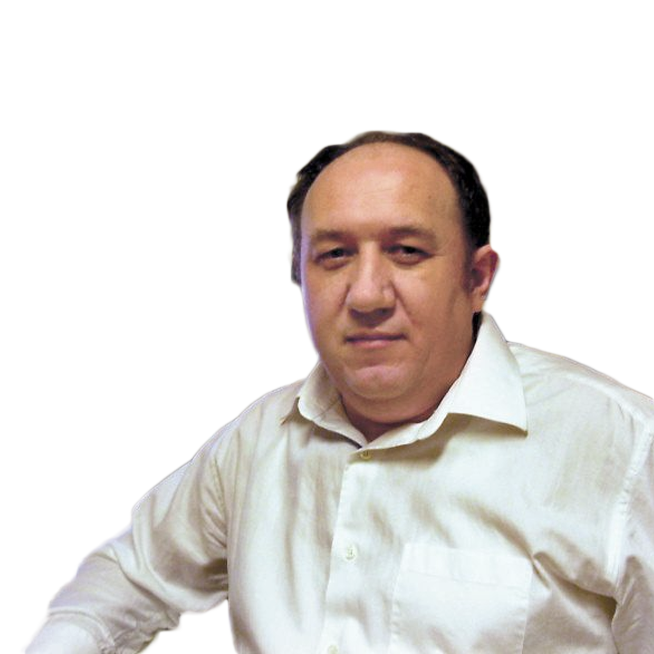
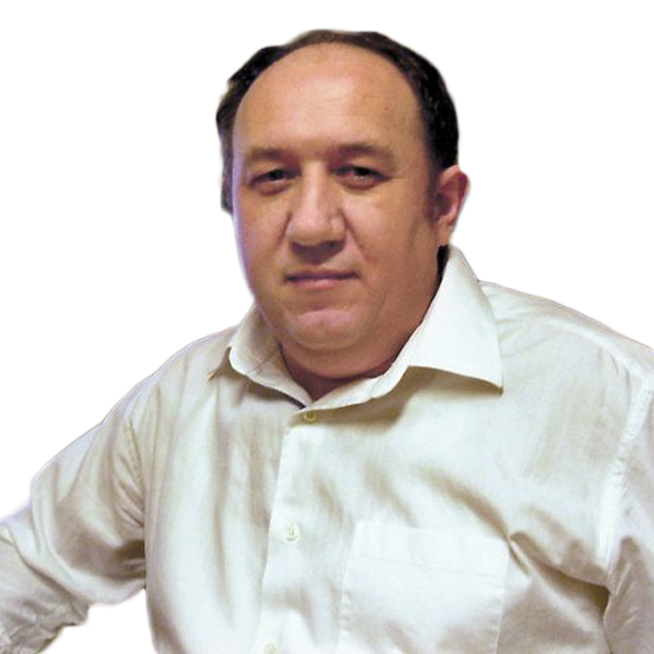
Изменил несколько фоток; сделал больше расстояние между людьми; добавил padding-left к секции team

diff --git a/docs/css/style.css b/docs/css/style.css
@@ -250,12 +250,13 @@ hr {
 #team {
     overflow: hidden;
     background: #eee;
+    padding-left: 15px;
 }
 
 #team > div {
     text-align: center;
-    width: calc(20% - 2px);
-    margin: 0 1px;
+    width: calc(20% - 16px);
+    margin: 0 8px;
     float: left;
     cursor: pointer;
 }
